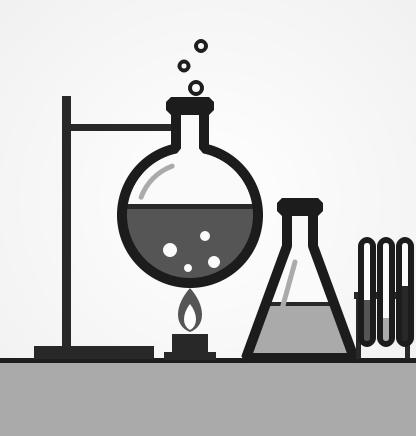
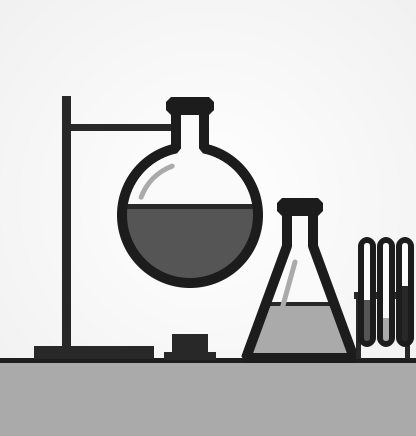
Version 0.8.5: bubbles and flame move on the loading screen
The scene is now drawn still (placeholder-lab.py --still) and the page animates
sprites from tools/splash-sprites.py: bubbles climb inside the liquid, bubbles
and notes float out of the flask, and the burner flame sways. All stepped, and
still under reduced motion.

diff --git a/src/style.css b/src/style.css
@@ -174,18 +174,50 @@ body:has(#splash:not(.gone)) { overflow: hidden; }
   display: block; width: min(56vmin, 360px); max-width: 100%; height: auto; border-radius: 6px;
   image-rendering: pixelated; image-rendering: crisp-edges;
 }
-/* Notes float out of the flask's neck (its mouth is at 45.7% across, 23% down), drift and fade.
-   Sized and placed in percentages of the picture, so they scale with it. */
-.crt .note {
-  position: absolute; left: 40.4%; top: 12%; width: 10.6%; height: auto;
-  image-rendering: pixelated; image-rendering: crisp-edges; pointer-events: none;
-  opacity: 0; transform-origin: 50% 100%;
+/* The moving parts of the scene, each a small sprite sized and placed in percentages of the
+   picture so they scale with it, stepped like an old machine: bubbles climb inside the liquid,
+   the flame sways on the burner, and bubbles and notes float out of the flask's neck (its mouth
+   is at 45.7% across, 23% down). */
+.crt .scene img:not(.picture) {
+  position: absolute; height: auto; pointer-events: none;
+  image-rendering: pixelated; image-rendering: crisp-edges;
 }
+.crt .flame { left: 41.4%; top: 65.1%; width: 8.65%; transform-origin: 50% 100%; }
+.crt .drop { width: 2.9%; top: 57%; opacity: 0; }
+.crt .d1 { left: 39.5%; --dx: 30%; --d: 0s; }
+.crt .d2 { left: 47.9%; --dx: -25%; --d: 0.45s; }
+.crt .d3 { left: 43.8%; --dx: -20%; --d: 0.85s; }
+.crt .d4 { left: 50%; --dx: 25%; --d: 1.2s; }
+.crt .bubble { left: 43.3%; top: 21.7%; width: 4.8%; opacity: 0; transform-origin: 50% 50%; }
+.crt .b1 { --dx: 70%; --d: 0.2s; }
+.crt .b2 { --dx: -60%; --d: 0.9s; }
+.crt .b3 { --dx: 120%; --d: 1.5s; }
+.crt .note { left: 40.4%; top: 12%; width: 10.6%; opacity: 0; transform-origin: 50% 100%; }
 .crt .n1 { --dx: 130%; --s: 1; --d: 0s; }
 .crt .n2 { --dx: 250%; --s: 0.8; --d: 0.7s; }
 .crt .n3 { --dx: -120%; --s: 0.7; --d: 1.4s; }
 @media (prefers-reduced-motion: no-preference) {
+  .crt .flame { animation: flame-sway 0.9s steps(6, end) infinite alternate; }
+  .crt .drop { animation: drop-rise 1.5s steps(12, end) infinite; animation-delay: var(--d); }
+  .crt .bubble { animation: bubble-rise 2s steps(14, end) infinite; animation-delay: var(--d); }
   .crt .note { animation: note-rise 2.1s steps(16, end) infinite; animation-delay: var(--d); }
+}
+@keyframes flame-sway {
+  from { transform: rotate(-8deg) scaleY(1); }
+  50% { transform: rotate(0deg) scaleY(0.9); }
+  to { transform: rotate(8deg) scaleY(1); }
+}
+@keyframes drop-rise {
+  0% { opacity: 0; transform: translate(0, 0); }
+  10% { opacity: 1; transform: translate(calc(var(--dx) * 0.2), -45%); }
+  90% { opacity: 1; transform: translate(var(--dx), -420%); }
+  100% { opacity: 0; transform: translate(var(--dx), -440%); }
+}
+@keyframes bubble-rise {
+  0% { opacity: 0; transform: translate(0, 0) scale(0.5); }
+  12% { opacity: 1; transform: translate(calc(var(--dx) * 0.2), -60%) scale(0.8); }
+  85% { opacity: 1; transform: translate(var(--dx), -300%) scale(1); }
+  100% { opacity: 0; transform: translate(var(--dx), -330%) scale(1.4); }
 }
 @keyframes note-rise {
   0% { opacity: 0; transform: translate(0, 0) scale(calc(var(--s) * 0.5)); }
@@ -696,6 +728,8 @@ html.theme-fade *::after {
   .splash { transition: none; }
   .splash-bar::after { display: none; }
   .crt .note { opacity: 1; transform: translate(var(--dx), -150%) scale(var(--s)); }
+  .crt .bubble { opacity: 1; transform: translate(calc(var(--dx) * 0.5), -180%); }
+  .crt .drop { opacity: 1; transform: translate(calc(var(--dx) * 0.5), -220%); }
   .splash-note .cursor { animation: none; }
   html.theme-fade, html.theme-fade *, html.theme-fade *::before, html.theme-fade *::after { transition: none !important; }
   ::view-transition-old(root),

diff --git a/src/index.html b/src/index.html
@@ -27,6 +27,14 @@
   <div class="crt">
     <div class="scene">
       <img class="picture" src="<!--SPLASH-->" alt="" width="104" height="109">
+      <img class="flame" src="<!--FLAME-->" alt="" width="9" height="12">
+      <img class="drop d1" src="<!--DROP-->" alt="" width="3" height="3">
+      <img class="drop d2" src="<!--DROP-->" alt="" width="3" height="3">
+      <img class="drop d3" src="<!--DROP-->" alt="" width="3" height="3">
+      <img class="drop d4" src="<!--DROP-->" alt="" width="3" height="3">
+      <img class="bubble b1" src="<!--BUBBLE-->" alt="" width="5" height="5">
+      <img class="bubble b2" src="<!--BUBBLE-->" alt="" width="5" height="5">
+      <img class="bubble b3" src="<!--BUBBLE-->" alt="" width="5" height="5">
       <img class="note n1" src="<!--NOTE-->" alt="" width="11" height="14">
       <img class="note n2" src="<!--NOTE-->" alt="" width="11" height="14">
       <img class="note n3" src="<!--NOTE-->" alt="" width="11" height="14">

diff --git a/build.js b/build.js
@@ -45,6 +45,9 @@ function samplesScript() {
   const page = read('index.html').replace('<!--STYLE-->', `<style>\n${read('style.css')}</style>`)
     .replace('<!--SPLASH-->', png('splash-light.png'))
     .replace(/<!--NOTE-->/g, png('note.png'))
+    .replace(/<!--BUBBLE-->/g, png('bubble.png'))
+    .replace(/<!--DROP-->/g, png('drop.png'))
+    .replace(/<!--FLAME-->/g, png('flame.png'))
     .replace('<!--SCRIPTS-->', scripts);
   fs.mkdirSync(DIST, { recursive: true });
 

diff --git a/tools/placeholder-lab.py b/tools/placeholder-lab.py
@@ -4,17 +4,18 @@
 # With --raw dithering, tone 0/85/170/255 are the palette's four solid colours.
 #   dark (default): dark wall, light glassware -- for the dark theme
 #   --light:        paper wall, ink glassware, blue liquid and notes -- for the light theme
-#   --no-notes:     leave the notes out (the app animates them itself: tools/note-sprite.py)
+#   --still:        leave out the moving parts (bubbles, flame, notes); the app animates
+#                   them itself from the sprites tools/splash-sprites.py draws
 # Runs under Calibre's bundled Python/Qt:
 #   "C:\Program Files\Calibre2\calibre-debug.exe" -e tools\placeholder-lab.py -- art\placeholder-lab.png
-#   "C:\Program Files\Calibre2\calibre-debug.exe" -e tools\placeholder-lab.py -- art\placeholder-lab-light.png --light --no-notes
+#   "C:\Program Files\Calibre2\calibre-debug.exe" -e tools\placeholder-lab.py -- art\placeholder-lab-light.png --light --still
 import sys
 from qt.core import (QImage, QPainter, QColor, QPen, QBrush, QPainterPath, QPointF, QRectF,
                      QRadialGradient, QLinearGradient, Qt)
 
 W, H = 416, 436
 light = '--light' in sys.argv
-notes = '--no-notes' not in sys.argv
+still = '--still' in sys.argv
 out = [a for a in sys.argv if not a.startswith('--')][-1]
 
 # Tone of each part of the scene (0 = darkest palette colour, 255 = lightest).
@@ -90,9 +91,10 @@ p.save()
 p.setClipPath(flask)
 p.fillRect(QRectF(0, 206, W, 200), grey(TONES['flask_liquid']))
 p.fillRect(QRectF(0, 204, W, 5), grey(TONES['meniscus']))
-for x, y, r in [(170, 250, 7), (205, 236, 5), (188, 268, 4), (214, 262, 6)]:
-    p.setBrush(grey(TONES['bubble_in']))
-    p.drawEllipse(QPointF(x, y), r, r)
+if not still:
+    for x, y, r in [(170, 250, 7), (205, 236, 5), (188, 268, 4), (214, 262, 6)]:
+        p.setBrush(grey(TONES['bubble_in']))
+        p.drawEllipse(QPointF(x, y), r, r)
 p.restore()
 p.setBrush(Qt.BrushStyle.NoBrush)
 p.setPen(glass)
@@ -106,18 +108,19 @@ p.setPen(no_pen)
 p.setBrush(grey(TONES['burner']))
 p.drawRect(QRectF(172, 334, 36, 26))
 p.drawRect(QRectF(164, 352, 52, 8))
-outer = QPainterPath()
-outer.moveTo(190, 288)
-outer.cubicTo(206, 306, 206, 326, 190, 332)
-outer.cubicTo(174, 326, 174, 306, 190, 288)
-p.setBrush(grey(TONES['flame']))
-p.drawPath(outer)
-inner = QPainterPath()
-inner.moveTo(190, 304)
-inner.cubicTo(198, 314, 198, 326, 190, 330)
-inner.cubicTo(182, 326, 182, 314, 190, 304)
-p.setBrush(grey(TONES['flame_core']))
-p.drawPath(inner)
+if not still:
+    outer = QPainterPath()
+    outer.moveTo(190, 288)
+    outer.cubicTo(206, 306, 206, 326, 190, 332)
+    outer.cubicTo(174, 326, 174, 306, 190, 288)
+    p.setBrush(grey(TONES['flame']))
+    p.drawPath(outer)
+    inner = QPainterPath()
+    inner.moveTo(190, 304)
+    inner.cubicTo(198, 314, 198, 326, 190, 330)
+    inner.cubicTo(182, 326, 182, 314, 190, 304)
+    p.setBrush(grey(TONES['flame_core']))
+    p.drawPath(inner)
 
 # Conical (Erlenmeyer) flask.
 cone = QPainterPath()
@@ -163,9 +166,10 @@ for x, level, shade in zip((361, 380, 399), (300, 318, 286), TONES['tubes']):
     p.drawPath(tube)
 
 # Bubbles rising out of the flask...
-p.setPen(QPen(grey(TONES['bubbles']), 4 if light else 3))
-for x, y, r in [(196, 88, 6), (184, 66, 4.5), (201, 46, 5)]:
-    p.drawEllipse(QPointF(x, y), r, r)
+if not still:
+    p.setPen(QPen(grey(TONES['bubbles']), 4 if light else 3))
+    for x, y, r in [(196, 88, 6), (184, 66, 4.5), (201, 46, 5)]:
+        p.drawEllipse(QPointF(x, y), r, r)
 
 # ...turning into music notes.
 def eighth_note(x, y, s):
@@ -187,11 +191,11 @@ def eighth_note(x, y, s):
     p.drawPath(flag)
     p.restore()
 
-if notes:
+if not still:
     eighth_note(236, 66, 1.0)
     eighth_note(286, 36, 0.8)
     eighth_note(132, 44, 0.7)
 
 p.end()
 img.save(out)
-print(f"{out}: {W}x{H} ({'light' if light else 'dark'}{'' if notes else ', no notes'})")
+print(f"{out}: {W}x{H} ({'light' if light else 'dark'}{', still' if still else ''})")

diff --git a/tools/splash-sprites.py b/tools/splash-sprites.py
@@ -1,0 +1,94 @@
+# Draws the loading screen's moving parts as little PNG sprites with transparency, in the light
+# palette's solid colours: the same shapes placeholder-lab.py used to draw into the scene, which
+# now leaves them out (--still) so the page can animate them. A note and a bubble that float out
+# of the flask, a bubble in the liquid, and the burner flame. Drawn at 4x like the scene, shrunk,
+# then kept as solid pixels (no dithering).
+# Runs under Calibre's bundled Python/Qt:
+#   "C:\Program Files\Calibre2\calibre-debug.exe" -e tools\splash-sprites.py -- src
+import os
+import sys
+from qt.core import QImage, QPainter, QColor, QPen, QPainterPath, QPointF, QRectF, Qt
+
+out_dir = [a for a in sys.argv if not a.startswith('--')][-1]
+S = 4
+INK, BLUE, PAPER = QColor(0x1F, 0x1A, 0x13), QColor(0x2B, 0x6C, 0xB0), QColor(0xF8, 0xF1, 0xE3)
+
+
+def grey(v):
+    return QColor(v, v, v)
+
+
+def canvas(w, h):
+    img = QImage(w, h, QImage.Format.Format_ARGB32)
+    img.fill(Qt.GlobalColor.transparent)
+    p = QPainter(img)
+    p.setRenderHint(QPainter.RenderHint.Antialiasing)
+    p.setPen(QPen(Qt.PenStyle.NoPen))
+    return img, p
+
+
+def sprite(img, name, colour_of):
+    """Shrink by S and keep the solid pixels; colour_of(tone) picks the palette colour."""
+    small = img.scaled(img.width() // S, img.height() // S, Qt.AspectRatioMode.IgnoreAspectRatio,
+                       Qt.TransformationMode.SmoothTransformation)
+    out = QImage(small.size(), QImage.Format.Format_ARGB32)
+    out.fill(Qt.GlobalColor.transparent)
+    for y in range(small.height()):
+        for x in range(small.width()):
+            c = small.pixelColor(x, y)
+            if c.alpha() >= 100:
+                out.setPixelColor(x, y, colour_of(c.red()))
+    path = os.path.join(out_dir, name)
+    out.save(path)
+    print(f"{path}: {out.width()}x{out.height()}")
+
+
+# Eighth note, 11x14, blue.
+img, p = canvas(44, 56)
+p.setBrush(grey(255))
+p.translate(12, 46)  # the note head's centre
+p.save()
+p.rotate(-22)
+p.drawEllipse(QPointF(0, 0), 10, 7)
+p.restore()
+p.drawRect(QRectF(7, -44, 4, 44))
+flag = QPainterPath()
+flag.moveTo(11, -44)
+flag.cubicTo(24, -36, 28, -24, 20, -12)
+flag.cubicTo(22, -24, 18, -30, 11, -32)
+flag.closeSubpath()
+p.drawPath(flag)
+p.end()
+sprite(img, 'note.png', lambda v: BLUE)
+
+# A bubble in the air: a 5x5 ring, ink.
+img, p = canvas(20, 20)
+p.setBrush(Qt.BrushStyle.NoBrush)
+p.setPen(QPen(grey(255), 4))
+p.drawEllipse(QPointF(10, 10), 7, 7)
+p.end()
+sprite(img, 'bubble.png', lambda v: INK)
+
+# A bubble in the liquid: a 3x3 dot, paper.
+img, p = canvas(12, 12)
+p.setBrush(grey(255))
+p.drawEllipse(QPointF(6, 6), 5.5, 5.5)
+p.end()
+sprite(img, 'drop.png', lambda v: PAPER)
+
+# The burner flame, 9x12: blue with a paper core (the scene's flame, 174-206 x 288-332).
+img, p = canvas(36, 48)
+outer = QPainterPath()
+outer.moveTo(18, 2)
+outer.cubicTo(34, 20, 34, 40, 18, 46)
+outer.cubicTo(2, 40, 2, 20, 18, 2)
+p.setBrush(grey(85))
+p.drawPath(outer)
+inner = QPainterPath()
+inner.moveTo(18, 18)
+inner.cubicTo(26, 28, 26, 40, 18, 44)
+inner.cubicTo(10, 40, 10, 28, 18, 18)
+p.setBrush(grey(255))
+p.drawPath(inner)
+p.end()
+sprite(img, 'flame.png', lambda v: PAPER if v > 170 else BLUE)
